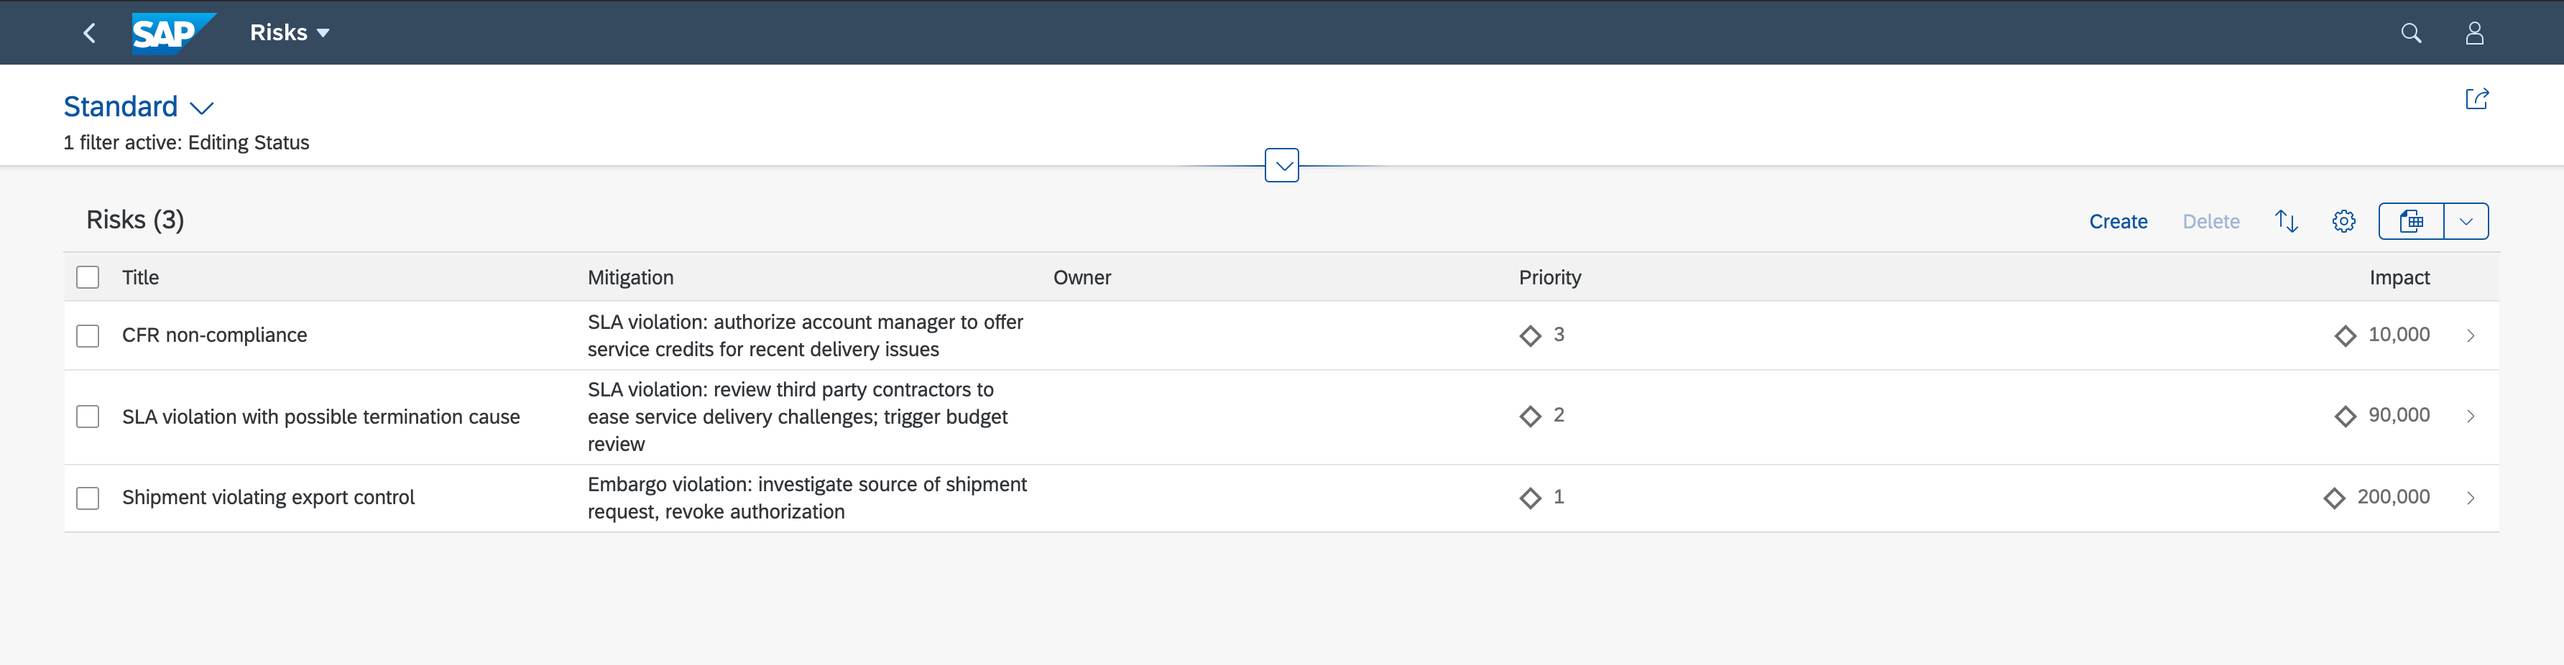
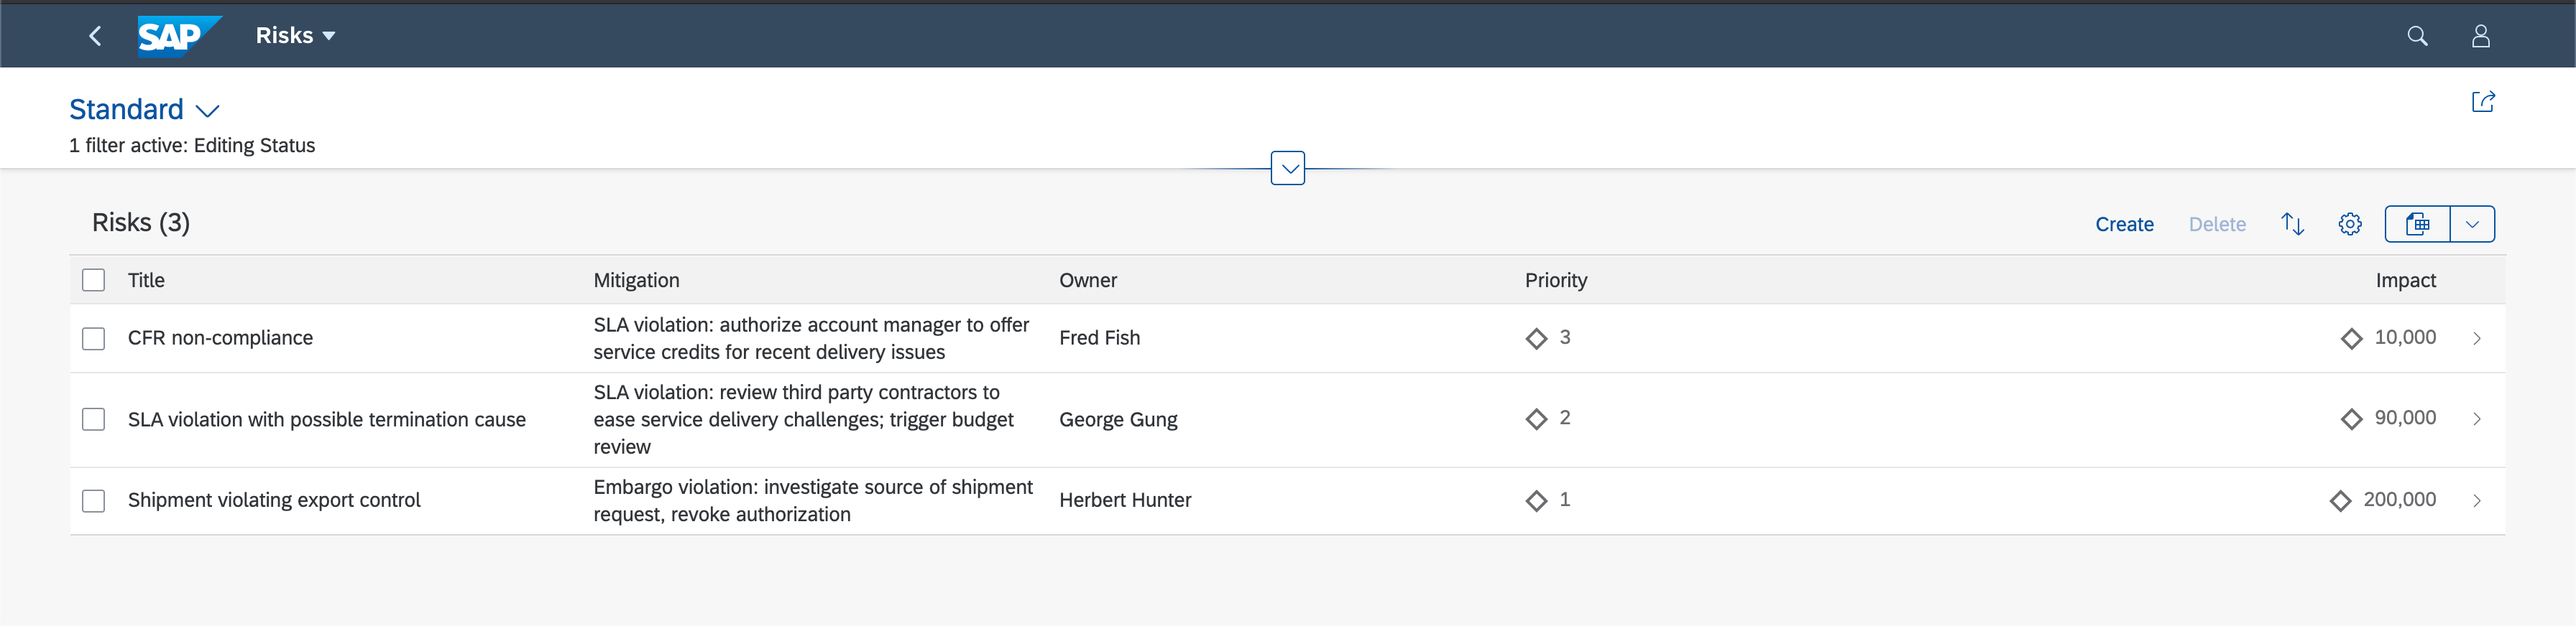
Chapter 3 and 4

diff --git a/exercises/ex1/README.md b/exercises/ex1/README.md
@@ -146,10 +146,10 @@ In this part we add data to the service. It is local data that is stored in a lo
 6. Enter the following lines into the editor
 
 ```csv
-ID;createdAt;createdBy;title;prio;descr;miti_id;impact
-20466922-7d57-4e76-b14c-e53fd97dcb11;2019-10-24;tim.back@sap.com;CFR non-compliance ;3;Recent restructuring might violate CFR code 71;20466921-7d57-4e76-b14c-e53fd97dcb11;10000
-20466922-7d57-4e76-b14c-e53fd97dcb12;2019-10-24;tim.back@sap.com;SLA violation with possible termination cause;2;Repeated SAL violation on service delivery for two successive quarters;20466921-7d57-4e76-b14c-e53fd97dcb12;90000
-20466922-7d57-4e76-b14c-e53fd97dcb13;2019-10-24;tim.back@sap.com;Shipment violating export control;1;Violation of export and trade control with unauthorized downloads;20466921-7d57-4e76-b14c-e53fd97dcb13;200000
+ID;createdAt;createdBy;title;owner;prio;descr;miti_id;impact
+20466922-7d57-4e76-b14c-e53fd97dcb11;2019-10-24;tim.back@sap.com;CFR non-compliance;Fred Fish;3;Recent restructuring might violate CFR code 71;20466921-7d57-4e76-b14c-e53fd97dcb11;10000
+20466922-7d57-4e76-b14c-e53fd97dcb12;2019-10-24;tim.back@sap.com;SLA violation with possible termination cause;George Gung;2;Repeated SAL violation on service delivery for two successive quarters;20466921-7d57-4e76-b14c-e53fd97dcb12;90000
+20466922-7d57-4e76-b14c-e53fd97dcb13;2019-10-24;tim.back@sap.com;Shipment violating export control;Herbert Hunter;1;Violation of export and trade control with unauthorized downloads;20466921-7d57-4e76-b14c-e53fd97dcb13;200000
 ```
 7. Save the file
 38 On the **data** folder,press the right mouse button and select **New File** in the menu
@@ -575,12 +575,7 @@ using { managed } from '@sap/cds/common';
     descr       : String;
     miti        : Association to Mitigations;
     impact      : Integer;
-  ```
-  ```diff
-  - //bp          @title: 'Business Partner';   
-  + bp          @title: 'Business Partner';  
-  ```
-  ```javascript
+    //bp          @title: 'Business Partner';   
     criticality : Integer;
   }
   entity Mitigations : managed {
@@ -684,6 +679,170 @@ module.exports = async (srv) => {
     You've now created a custom handler of your service. This time it's called ```on``` the ```READ``` event of your ```BusinessPartner``` service, so whenever there’s a request for business partner data, this handler is called.
 
     Now, as you've seen before, in normal cases CAP would now get the data from your own DB and your local data in it. Until then it had no indication that the service is actually from somewhere else. You've given CAP an EDMX file with a definition but not where it comes from and where the data is to be retrieved from. So, in your new handler, you tell CAP that it should get the data from the ```A_BusinessPartner``` entity of the original service that you imported. 
+
+
+## ###############################################################
+
+## Exercise 1.4 Consume the External Service in Your UI Application
+
+In this chapter, you incorporate the external service into the UI application.
+
+1. Open the ```db/schema.cds``` file.
+2. Uncomment the ```bp``` property.
+
+```javascript
+namespace sap.ui.riskmanagement;
+using { managed } from '@sap/cds/common';
+  entity Risks : managed {
+    key ID      : UUID  @(Core.Computed : true);
+    title       : String(100);
+    prio        : String(5);
+    descr       : String;
+    miti        : Association to Mitigations;
+    impact      : Integer;
+  ```
+  ```diff
+  - //bp          @title: 'Business Partner';   
+  + bp          @title: 'Business Partner';  
+  ```
+  ```javascript
+    criticality : Integer;
+  }
+  entity Mitigations : managed {
+    key ID       : UUID  @(Core.Computed : true);
+    description  : String;
+    owner        : String;
+    timeline     : String;
+    risks        : Association to many Risks on risks.miti = $self;
+  }
+  // using an external service from S/4
+  using {  API_BUSINESS_PARTNER as external } from '../srv/external/API_BUSINESS_PARTNER.csn';
+  entity BusinessPartners as projection on external.A_BusinessPartner {
+    key BusinessPartner,
+    LastName,
+    FirstName
+  }
+```
+
+	As you got a new property in your entity, you need to add data for this property in the local data file that you've created before for the ```risk``` entity.
+
+
+
+3. Open the ```srv/risk-service.js``` file within the ```cpapp``` folder in your VS Code workplace.
+
+4. Uncomment the following lines in the file:
+
+    <!-- cpes-file srv/risk-service.js -->
+```js hl_lines="14-17"
+/**
+ * Implementation for Risk Management service defined in ./risk-service.cds
+ */
+module.exports = async (srv) => {
+    srv.after('READ', 'Risks', (risks) => {
+        risks.forEach((risk) => {
+            if (risk.impact >= 100000) {
+                risk.criticality = 1;
+            } else {
+                risk.criticality = 2;
+            }
+        });
+    });
+    srv.on('READ', 'Risks', (req, next) => {
+        req.query.SELECT.columns = req.query.SELECT.columns.filter(({ expand, ref }) => !(expand && ref[0] === 'bp'));
+        return next();
+    });
+
+    const BupaService = await cds.connect.to('API_BUSINESS_PARTNER');
+    srv.on('READ', srv.entities.BusinessPartners, async (req) => {
+        return await BupaService.tx(req).run(req.query);
+    });
+}
+```
+
+5. Opem the file `sap.ui.riskmanagement-Risks.csv` in your `db/data` folder.
+6. Replace the content with the new content below which additionally includes the BP data
+
+```csv
+ID;createdAt;createdBy;title;owner;prio;descr;miti_id;impact;bp_BusinessPartner
+20466922-7d57-4e76-b14c-e53fd97dcb11;2019-10-24;tim.back@sap.com;CFR non-compliance;Fred Fish;3;Recent restructuring might violate CFR code 71;20466921-7d57-4e76-b14c-e53fd97dcb11;10000;1004155
+20466922-7d57-4e76-b14c-e53fd97dcb12;2019-10-24;tim.back@sap.com;SLA violation with possible termination cause;George Gung;2;Repeated SAL violation on service delivery for two successive quarters;20466921-7d57-4e76-b14c-e53fd97dcb12;90000;1004161
+20466922-7d57-4e76-b14c-e53fd97dcb13;2019-10-24;tim.back@sap.com;Shipment violating export control;Herbert Hunter;1;Violation of export and trade control with unauthorized downloads;20466921-7d57-4e76-b14c-e53fd97dcb13;200000;1004100
+```
+
+  If you check the content of the file, you see numbers like ```1004155``` at the end of the lines, representing business partners.
+
+
+### Add the Business Partner Field to the UI
+
+Now, you also introduce the business partner field in the UI. For this you need to do several things:
+
+- You add a label for the columns in the result list table as well as in the object page by adding a title annotation.
+- You add the business partner as a line item to include it as a column in the result list.
+- You add the business partner as a field to a field group, which makes it appear in a form on the object page.
+
+All this happens in the cds file that has all the UI annotations.
+
+1. Open the ```srv/risks-service-ui.cds``` file..
+2. Uncomment the following parts:
+
+```javascript 
+	using RiskService from './risk-service';
+
+	annotate RiskService.Risks with {
+		...
+```
+```diff
+-     //bp          @title: 'Business Partner';
++     bp          @title: 'Business Partner';
+```
+```javascript
+      ...
+	}
+
+
+	annotate RiskService.Risks with @(
+		UI: {
+			...
+			LineItem: [
+				...
+```
+```diff
+-       //{Value: bp_BusinessPartner},
++				{Value: bp_BusinessPartner},
+```
+```javascript
+				...
+			],
+			...
+			FieldGroup#Main: {
+				Data: [
+					...
+```
+```diff
++         //{Value: bp_BusinessPartner},
+-					{Value: bp_BusinessPartner},
+```
+```javascript
+					...
+				]
+			}
+		},
+	) {
+
+	};
+```
+
+3. In your browser, choose the link [/risks/webapp/index.html](http://localhost:4004/risks/webapp/index.html) for the HTML page.
+
+4. On the launch page that now comes up, choose the **Risks** tile and then Click Go.
+
+	You now see the ```Risks``` application with the business partner in both the result list and the object page, which is loaded when you choose on one of the rows in the table:
+
+	![Business Partner Data](markdown/images/bpinriskstable.png "Business Partner Data")
+
+	![Business Partner Data](markdown/images/bpinriskobjectpage.png "Business Partner Data")
+
+
 
 
 Continue to - [Exercise 2](../ex2/README.md)
